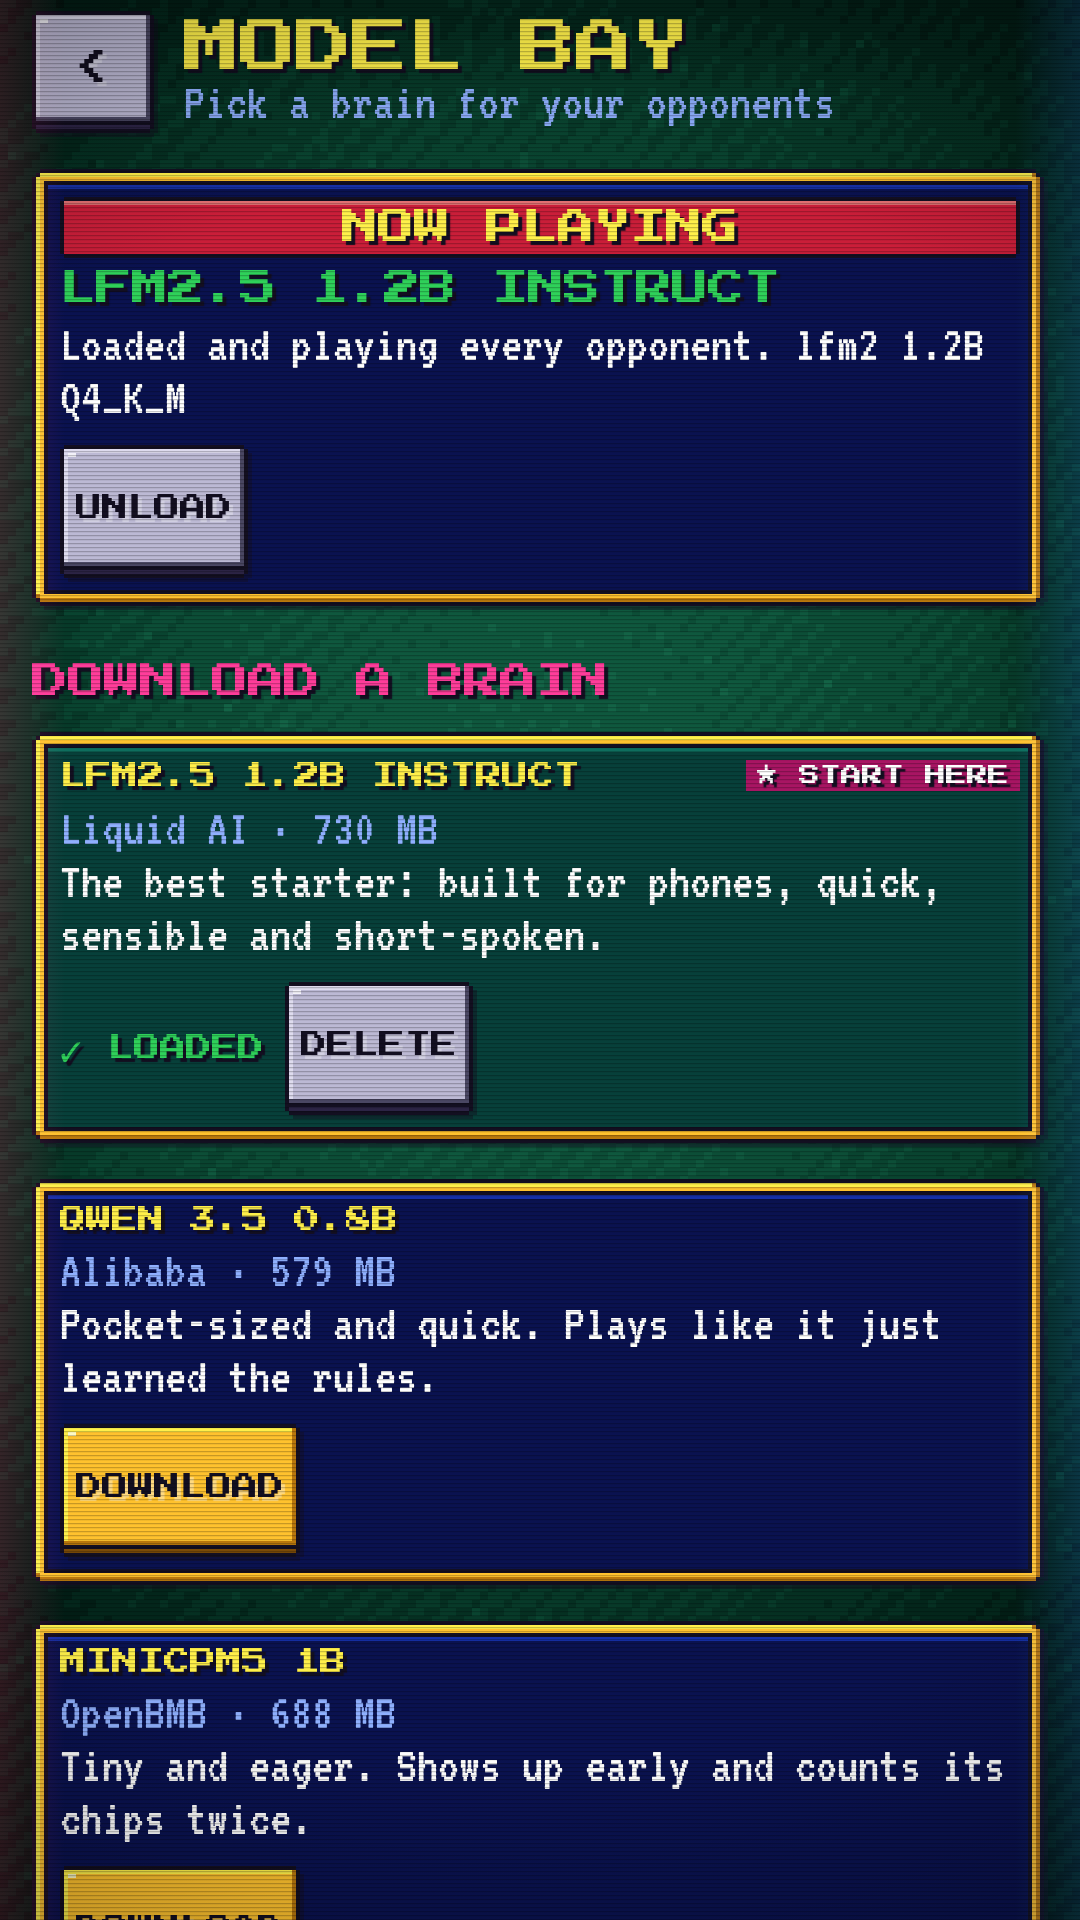
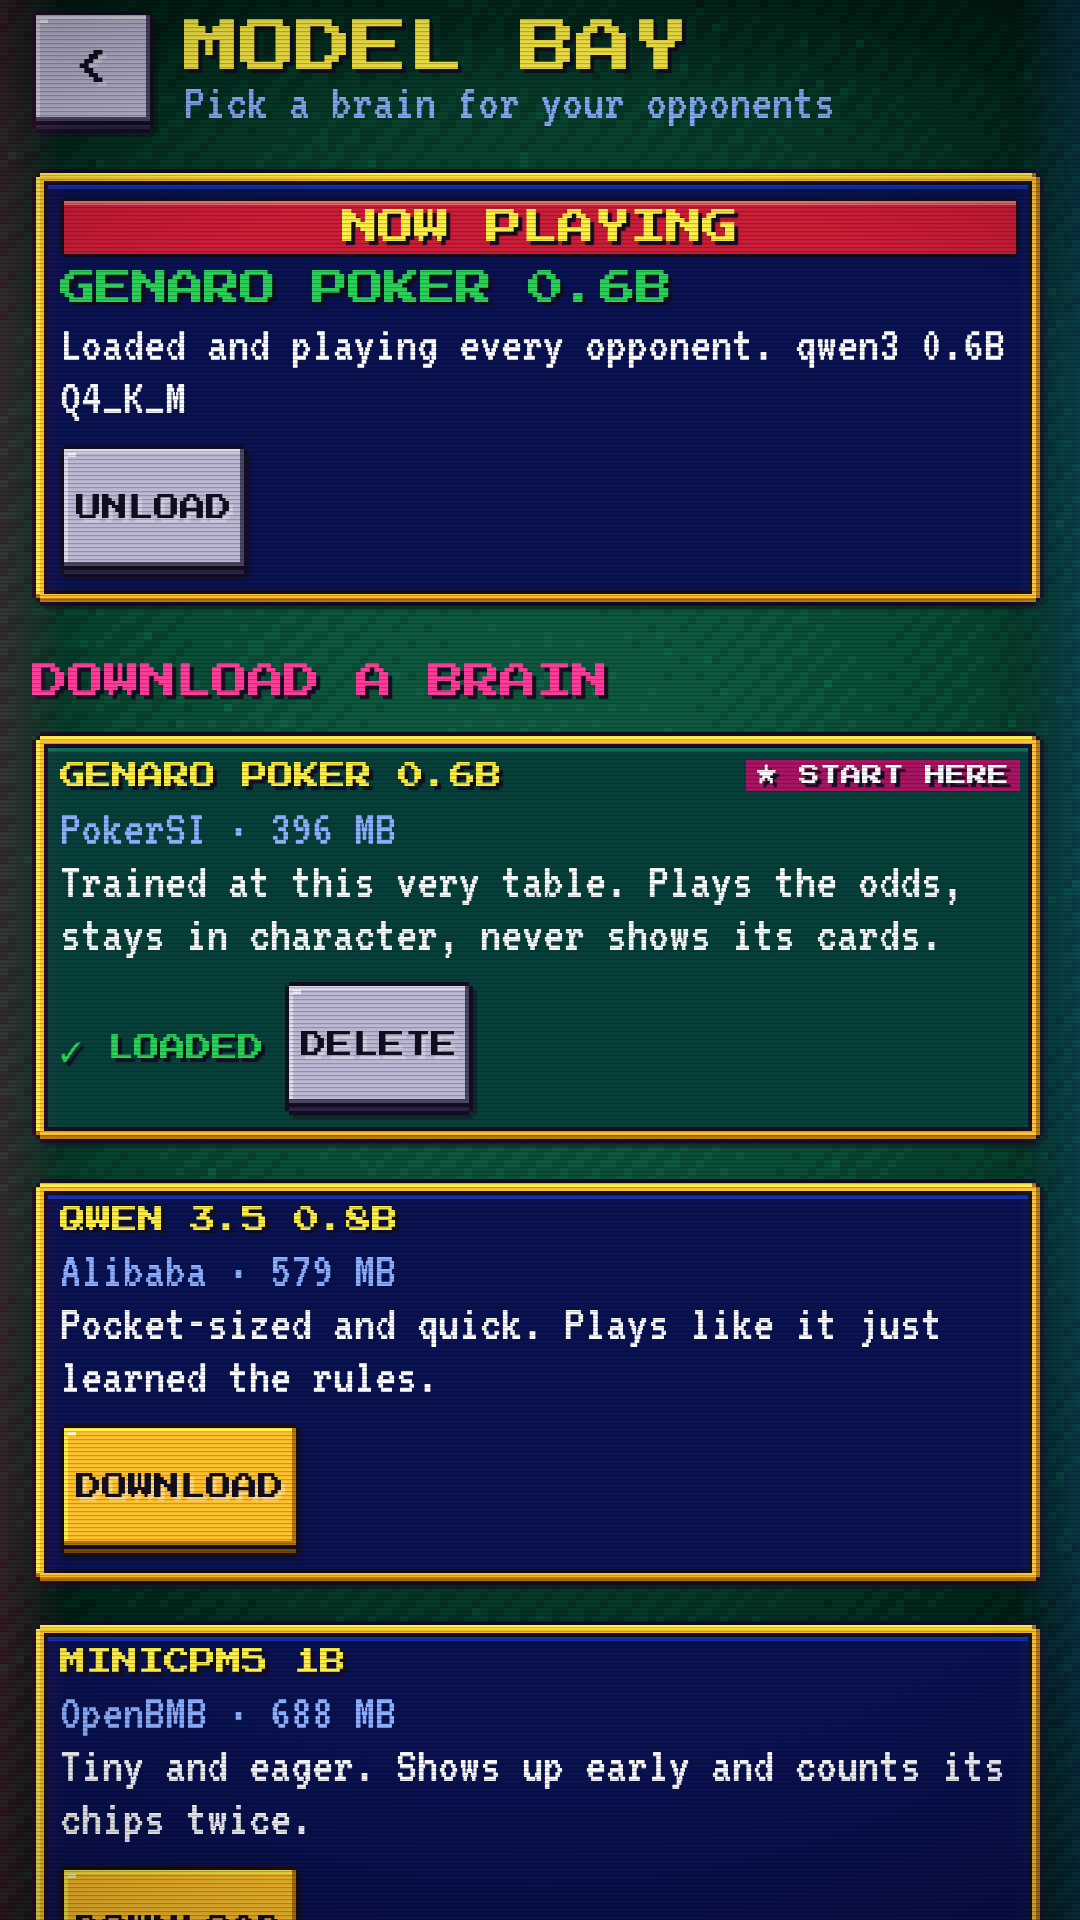
Add Genaro Poker 0.6B, a model trained for PokerSI, as the recommended model (#35)
* Add Genaro Poker 0.6B to the model catalog as the recommended model

Genaro is a Qwen3-0.6B fine-tune trained on PokerSI's own prompts, grammar
and table-talk rules (github.com/bradflaugher/genaro-poker). On 600 held-out
decisions, run through llama.cpp with the app's prompt, grammar and sampling,
compared with LFM2.5 1.2B (the previous recommended model):

- agreement with the House Bot teacher majority: 78.5% vs 55.8%
- blunders per 100 betting decisions: 9.1 vs 12.6
- lines HandBlur would censor: 0.0% vs 2.6%; lines over 12 words: 0% vs 9.4%
- 397 MB vs 731 MB

Live play against House Bots is level (-84 +/- 52 vs -80 +/- 80 bb/100).

* Regenerate the model-bay screenshots for Genaro

The scripted Models scene loads the recommended model, so it now shows
Genaro Poker 0.6B as loaded and START HERE; its engine line says qwen3 0.6B.
Re-rendered with tools/screenshots/shoot.py (store phone/7-inch/10-inch and
docs/screenshots/models.png) and refreshed site/img/models.webp. Only the
model screens changed; the other screenshots are pixel-identical.

diff --git a/app/src/main/java/com/bradflaugher/pokersi/llm/ModelCatalog.kt b/app/src/main/java/com/bradflaugher/pokersi/llm/ModelCatalog.kt
@@ -15,15 +15,22 @@ data class CatalogModel(
 
 /**
  * Small instruct GGUFs that run on a phone and follow a JSON format well
- * enough to play: the newest of each family LM Playground carries, Q4_K_M
- * (Gemma 4 is Google's own quantization-aware Q4_0). Sizes were checked
- * with HTTP HEAD requests (Hugging Face's x-linked-size); the URLs are the
- * repos LM Playground uses.
+ * enough to play. First, Genaro: a Qwen3 fine-tune trained on this game's
+ * own prompts and grammar (github.com/bradflaugher/genaro-poker). Then the
+ * newest of each family LM Playground carries, Q4_K_M (Gemma 4 is Google's
+ * own quantization-aware Q4_0), from the repos LM Playground uses. Sizes
+ * were checked with HTTP HEAD requests (Hugging Face's x-linked-size).
  */
 object ModelCatalog {
     private const val HF = "https://huggingface.co"
 
     val models: List<CatalogModel> = listOf(
+        CatalogModel(
+            "genaro-poker-0.6b", "Genaro Poker 0.6B", "PokerSI", "genaro-poker-0.6b-Q4_K_M.gguf",
+            "$HF/predbrad/Genaro-poker/resolve/main/genaro-poker-0.6b-Q4_K_M.gguf", 396_705_312,
+            "Trained at this very table. Plays the odds, stays in character, never shows its cards.",
+            recommended = true,
+        ),
         CatalogModel(
             "qwen3.5-0.8b", "Qwen 3.5 0.8B", "Alibaba", "Qwen_Qwen3.5-0.8B-Q4_K_M.gguf",
             "$HF/bartowski/Qwen_Qwen3.5-0.8B-GGUF/resolve/main/Qwen_Qwen3.5-0.8B-Q4_K_M.gguf", 579_615_840,
@@ -42,8 +49,7 @@ object ModelCatalog {
         CatalogModel(
             "lfm2.5-1.2b", "LFM2.5 1.2B Instruct", "Liquid AI", "LFM2.5-1.2B-Instruct-Q4_K_M.gguf",
             "$HF/LiquidAI/LFM2.5-1.2B-Instruct-GGUF/resolve/main/LFM2.5-1.2B-Instruct-Q4_K_M.gguf", 730_895_168,
-            "The best starter: built for phones, quick, sensible and short-spoken.",
-            recommended = true,
+            "Built for phones: quick, sensible and short-spoken.",
         ),
         CatalogModel(
             "granite4-h-1b", "Granite 4.0 H 1B", "IBM", "granite-4.0-h-1b-Q4_K_M.gguf",

diff --git a/app/src/main/java/com/bradflaugher/pokersi/ui/screens/InfoScreens.kt b/app/src/main/java/com/bradflaugher/pokersi/ui/screens/InfoScreens.kt
@@ -98,7 +98,7 @@ internal val Faqs = listOf(
     ),
     Faq(
         "WHICH MODEL SHOULD I PICK?",
-        "Start with ${ModelCatalog.recommended.name}: built for phones, quick and sensible. Bigger models play sharper but need more memory and think slower. MODELS can also load GGUF files you already have.",
+        "Start with ${ModelCatalog.recommended.name}: small, quick, and trained on this game, so it plays sensibly and keeps its cards secret. Bigger models play sharper but need more memory and think slower. MODELS can also load GGUF files you already have.",
     ),
     Faq(
         "MY PHONE IS OLD. WILL IT WORK?",

diff --git a/app/src/test/java/com/bradflaugher/pokersi/ui/models/ModelsScenes.kt b/app/src/test/java/com/bradflaugher/pokersi/ui/models/ModelsScenes.kt
@@ -18,7 +18,7 @@ object ModelsScenes {
             }
             val loaded = catalog.first { it.catalog!!.recommended }
             return ModelsUiState(
-                engine = EngineState.Ready(loaded.id, loaded.name, "lfm2 1.2B Q4_K_M"),
+                engine = EngineState.Ready(loaded.id, loaded.name, "qwen3 0.6B Q4_K_M"),
                 models = catalog,
                 folders = listOf(Uri.parse("content://com.android.externalstorage.documents/tree/primary%3AModels")),
             )

diff --git a/README.md b/README.md
@@ -164,7 +164,11 @@ Open **Models** from the title screen.
 
 - **Download a curated model.** A short list of small GGUF models, picked
   to play well and fit on phones, in the spirit of
-  [LM Playground](https://github.com/andriydruk/LMPlayground). Downloads
+  [LM Playground](https://github.com/andriydruk/LMPlayground). At the top is
+  **Genaro Poker 0.6B** (397 MB), a Qwen3 fine-tune trained on this game's
+  own prompts and grammar
+  ([genaro-poker](https://github.com/bradflaugher/genaro-poker)): it plays
+  the odds, stays in character and keeps its cards secret. Downloads
   come straight from Hugging Face, run in the background with a progress
   notification, and land in the app's own storage. Tap one to load it.
 - **Load your own GGUF files.** Pick a folder with the system file picker
